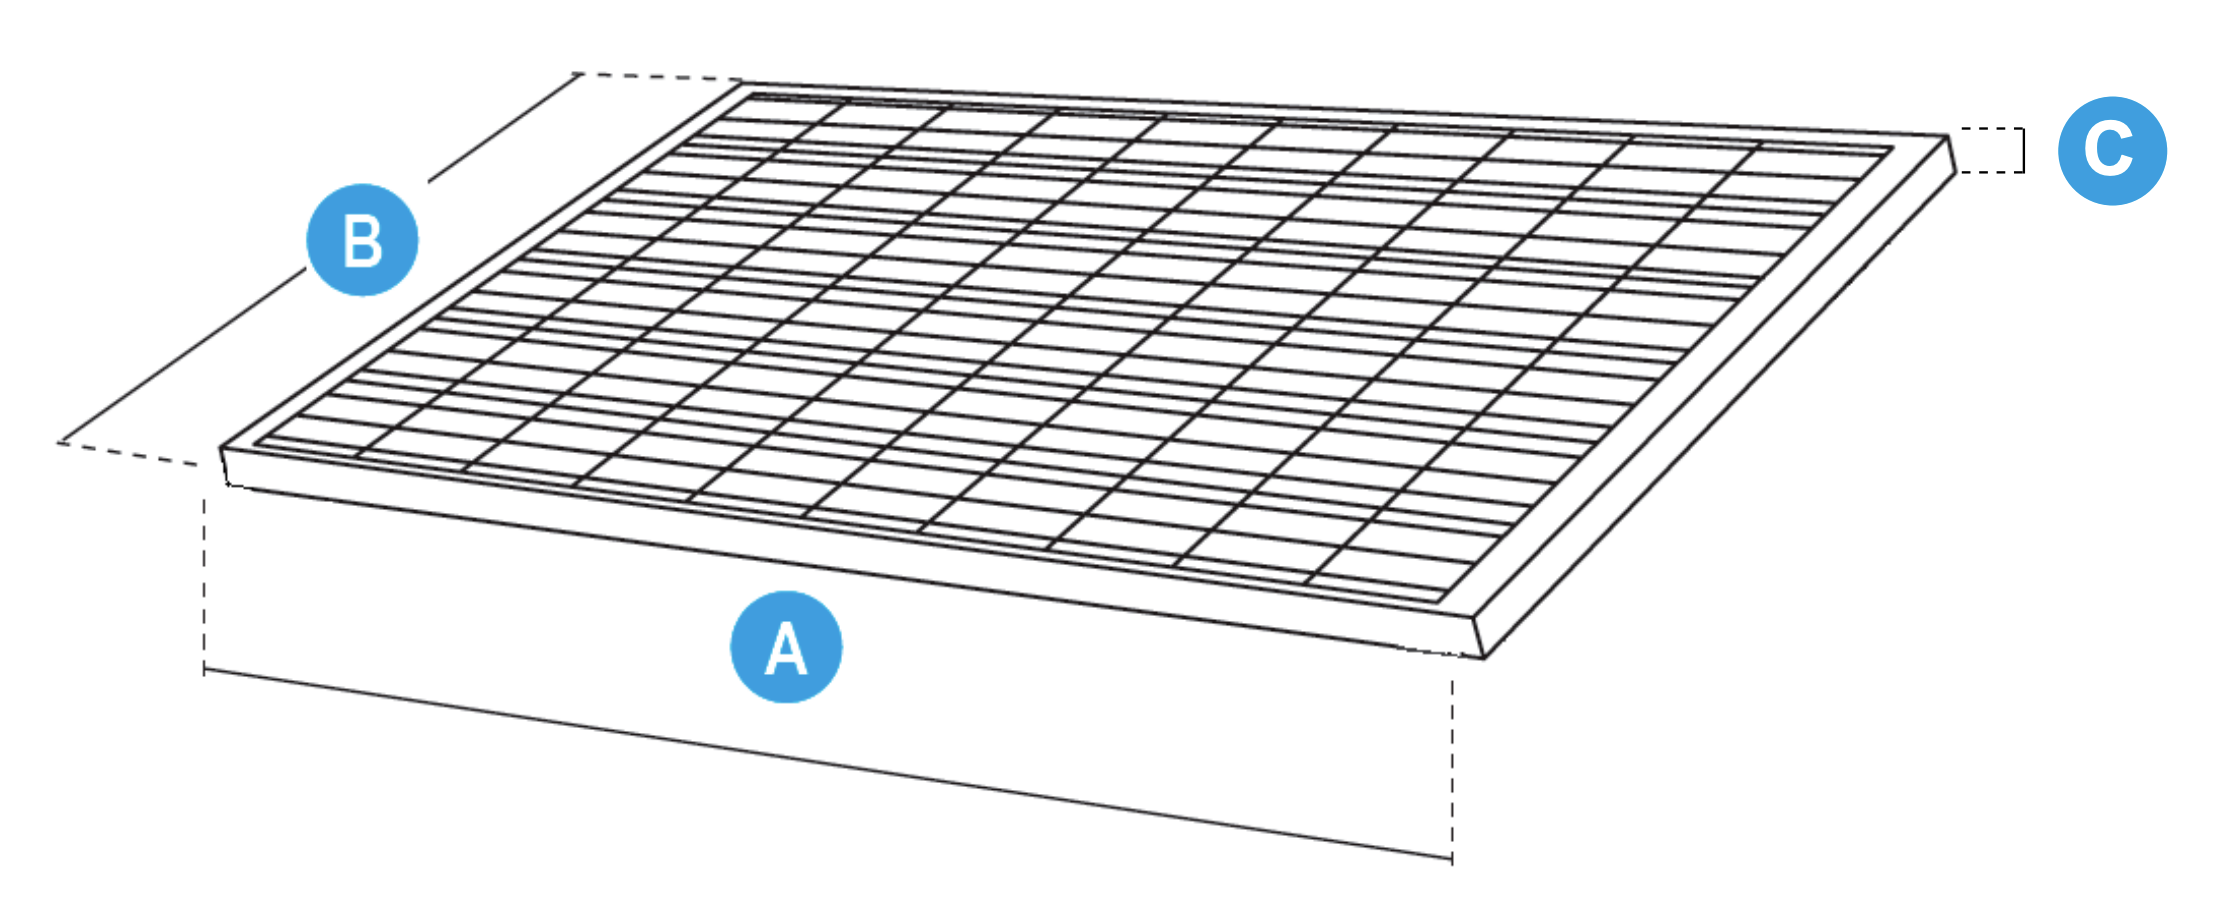
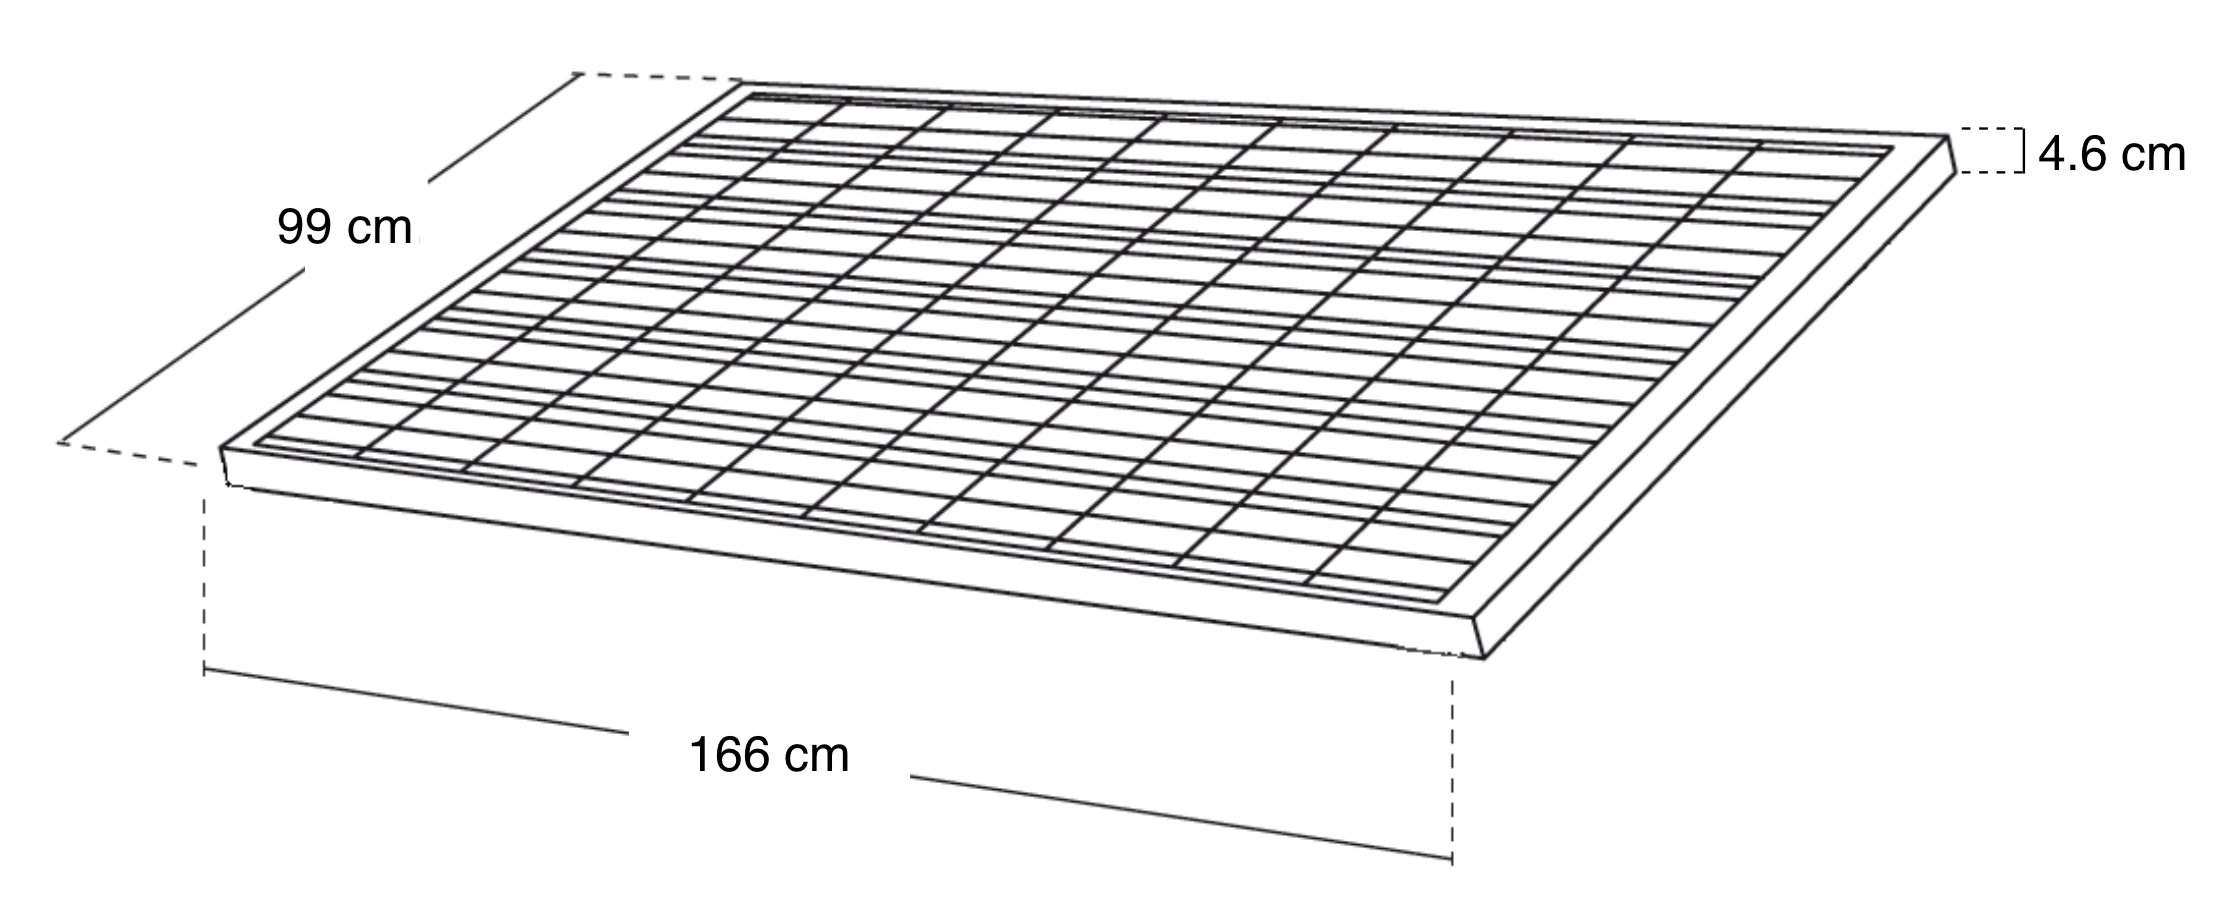
Correciones de rocha, figuras y redaccion

diff --git a/Capitulo2/marco_teorico.tex b/Capitulo2/marco_teorico.tex
@@ -8,12 +8,12 @@ Dado que este trabajo terminal emplea conceptos de diversas áreas de la Ingenie
 
 
 \section{Sistema Fotovoltaico}
-Un sistema fotovoltaico es un conjunto de dispositivos que aprovechan la energía producida por el Sol y la convierten en energía eléctrica \citep{MarcoTeorico1}. Un sistema fotovoltaico puede ser “interconectado” para residencias o negocios con acceso a la red eléctrica. 
+Un sistema fotovoltaico es un conjunto de dispositivos que aprovechan la energía producida por el sol y la convierten en energía eléctrica \citep{MarcoTeorico1}. Un sistema fotovoltaico puede ser “interconectado” para residencias o negocios con acceso a la red eléctrica. 
 
 \paragraph{}
 Con este sistema la energía generada se inyecta a la red eléctrica, disminuyendo así el consumo de energía de la compañía de luz. La otra opción es un sistema “isla” que permite el suministro de energía eléctrica en lugares inaccesibles para la red eléctrica. Estos sistemas son usados principalmente en casas de campo o en antenas de telecomunicación.
 \paragraph{}
-La particularidad de la corriente eléctrica generada por el efecto fotovoltaico es que esta corriente es continua, por lo cual el inversor transforma la corriente continua en alterna al estándar de la Norma Oficial Mexicana NOM-001-SEDE-2012 de Instalaciones Eléctricas (127 Volts a 60 Hertz) \citep{NORMA-Electrica} para ser alimentada a la red eléctrica, a continuación se muestra el diagrama de una instalación de un sistema fotovoltaico:
+La particularidad de la corriente eléctrica generada por el efecto fotovoltaico es que esta corriente es continua, por lo cual el inversor transforma la corriente continua en alterna al estándar de la Norma Oficial Mexicana NOM-001-SEDE-2012 de Instalaciones Eléctricas (127 Volts a 60 Hertz) \citep{NORMA-Electrica} para ser alimentada a la red eléctrica, en la figura 2.1 se muestra la típica configuración de un sistema fotovoltaico:
 
 \begin{figure}[H]
 	\centering
@@ -57,12 +57,12 @@ Unos de los requisitos más importantes de la instalación que cabe mencionar aq
 \paragraph{Panel fotovoltaico}
 Los paneles fotovoltaicos, llamados comúnmente paneles solares, están formados por un conjunto de células fotovoltaicas que producen electricidad a partir de la luz que incide sobre ellos mediante el efecto fotoeléctrico.
 \paragraph{}
-En la siguiente imagen se ilustra el efecto que consiste en la capacidad de algunos materiales (llamados semiconductores) de captar una parte de la energía de la luz para generar corriente eléctrica. En concreto, son los fotones los cuales transmiten una parte de su energía a ciertos electrones del material semiconductor. Estos electrones se “excitan”, y empiezan a fluir debido a la diferencia de potencial creando así corriente eléctrica \citep{MarcoTeorico2}.
+En la figura 2.2 se ilustra el efecto que consiste en la capacidad de algunos materiales (llamados semiconductores) de captar una parte de la energía de la luz para generar corriente eléctrica. En concreto, son los fotones los cuales transmiten una parte de su energía a ciertos electrones del material semiconductor. Estos electrones se “excitan”, y empiezan a fluir debido a la diferencia de potencial creando así corriente eléctrica \citep{MarcoTeorico2}.
 
 \begin{figure}[H]
 	\centering
 	\includegraphics[scale=.50]{Capitulo2/images/celula-fotovoltaica.jpg}
-	\caption{Ilustración del Efecto Fotoeléctrico}
+	\caption{Efecto Fotoeléctrico}
 	\label{fig:diagrama_dispensador}
 \end{figure}
 
@@ -77,21 +77,21 @@ Los paneles fotovoltaicos se clasifican en función del tipo de célula que los 
 \begin{figure}[H]
 	\centering
 	\includegraphics[scale=.50]{Capitulo2/images/tipospaneles.jpg}
-	\caption{De izquierda a derecha, célula monocristalina y célula policristalina}
+	\caption{A: célula monocristalina ; B: célula policristalina}
 	\label{fig:diagrama_dispensador}
 \end{figure}
 
 El costo de los paneles fotovoltaicos se ha reducido de forma constante desde que se fabricaron las primeras células solares comerciales y su coste medio de generación eléctrica ya es competitivo con las fuentes de energía convencionales en un creciente número de regiones geográficas.
-Los paneles fotovoltaicos pueden generar una gran cantidad de energía ya que en un día soleado, el Sol puede irradiar alrededor de 1kw por metro cuadrado a la superficie de la tierra, que sumado a la eficacia de estos paneles puede generar entre 120 y 250 w de manera constante por metro cuadrado, siempre dependiendo del tipo de panel y de su nivel de eficiencia.
+Los paneles fotovoltaicos pueden generar una gran cantidad de energía ya que en un día soleado, el sol puede irradiar alrededor de 1kw por metro cuadrado a la superficie de la tierra, que sumado a la eficacia de estos paneles puede generar entre 120 y 250 w de manera constante por metro cuadrado, siempre dependiendo del tipo de panel y de su nivel de eficiencia.
 
 \paragraph{Módulo Fotovoltaico 250W Policristalino IUSA}
 Módulo fotovoltaico al estándar de las normas mexicanas NMX-J-643 y NMX-J-618, se muestra en la siguiente imagen, con 60 celdas en silicio policristalino, vidrio templado anti reflejante de 3.2 mm, caja de conexión IP67 con 3 diodos bypass y conectores compatibles con MC4.
-Tiene una potencia máxima de 250W y un voltaje máximo de 30.6V, con una eficiencia del 15.1 porciento y temperatura de operación entre los -40ºC a los 85ºC. \citep{MarcoTeorico3}.
+Tiene una potencia máxima de 250W y un voltaje máximo de 30.6V, con una eficiencia del 15.1\% y temperatura de operación entre los -40ºC a los 85ºC. \citep{MarcoTeorico3}.
 
 \begin{figure}[H]
 	\centering
 	\includegraphics[scale=.25]{Capitulo2/images/panel.png}
-	\caption{Esquema del Panel Fotovoltaico, A: 166 cm, B: 99 cm. C: 4.6 cm}
+	\caption{Módulo Fotovoltaico 250W Policristalino IUSA}
 	\label{fig:diagrama_dispensador}
 \end{figure}
 
@@ -100,7 +100,7 @@ Diseñado específicamente para interconexiones en el sistema de distribución m
 
 \begin{figure}[H]
 	\centering
-	\includegraphics[scale=.25]{Capitulo2/images/microinversor.png}
+	\includegraphics[scale=.20]{Capitulo2/images/microinversor.png}
 	\caption{Microinversor M1-01-250}
 	\label{fig:diagrama_dispensador}
 \end{figure}
@@ -129,16 +129,16 @@ MIKROE-2542 es una placa con un adaptador tipo mikroBUS que integra el módulo E
 
 \begin{figure}[H]
 	\centering
-	\includegraphics[scale=.25]{Capitulo2/images/mikroe.png}
-	\caption{Placa MIKROE-2542}
+	\includegraphics[scale=.4]{Capitulo2/images/mikroe.png}
+	\caption{Placa MIKROE-2542, A:frente ; B:posterior}
 	\label{fig:diagrama_dispensador}
 \end{figure}
 \paragraph{}
 
 \begin{figure}[H]
 	\centering
-	\includegraphics[scale=.25]{Capitulo2/images/wroom.png}
-	\caption{Módulo ESP-WROOM-02}
+	\includegraphics[scale=.2]{Capitulo2/images/wroom.png}
+	\caption{Módulo ESP-WROOM-02, A:frente ; B:posterior}
 	\label{fig:diagrama_dispensador}
 \end{figure}
 
@@ -157,11 +157,11 @@ Es un estándar de distribución de los pines para la conexión y comunicación 
 El ESP8266 es un SoC Wi-Fi \citep{MarcoTeorico7} (System on Chip: integra todos o gran parte de los módulos que componen un sistema electrónico en un único circuito integrado) compuesto por una pila TCP/IP y un microcontrolador \citep{MarcoTeorico8}.
 \paragraph{}
 
-Este módulo permite a otros microcontroladores conectarse a un red inalámbrica Wi-Fi y realizar conexiones simples con TCP/IP haciendo uso eficiente de energía, lo cual lo hace ideal para proyectos de IoT. A continuación, se muestra una comparativa con otros módulos WiFi, la elección de este módulo es debido a que tiene solamente las características de comunicación WiFi necesarias y suficientes para la aplicación a desarrollar, además de un costo promedio:
+Este módulo permite a otros microcontroladores conectarse a un red inalámbrica Wi-Fi y realizar conexiones simples con TCP/IP haciendo uso eficiente de energía, lo cual lo hace ideal para proyectos de IoT. A continuación, se muestra una comparativa con otros módulos WiFi, la elección de este módulo es debido a que tiene solamente las características de comunicación WiFi necesarias y suficientes para la aplicación a desarrollar.
 
 \begin{figure}[H]
 	\centering
-	\includegraphics[scale=.4]{Capitulo2/images/esp8266.png}
+	\includegraphics[scale=.3]{Capitulo2/images/esp8266.png}
 	\caption{Diagrama esquemático del chip ESP8266}
 	\label{fig:diagrama_dispensador}
 \end{figure}
@@ -426,6 +426,8 @@ A continuación, se muestra una comparativa entre la Raspberry Pi 3B y la Banana
 	%\label{tabla_riesgos}
 \end{longtable}
 
+
+
 \section{Microcontroladores}
 Hoy en día, los conteos de producción de microcontroladores son de miles de millones por año, y los controladores están integrados en muchos dispositivos a los que nos hemos acostumbrado, como electrodomésticos (microondas, lavadora, cafetera, etc.), telecomunicaciones (teléfonos móviles), industria automotriz (inyección de combustible, frenado ABS, etc.), industria aeroespacial, automatización industrial, entre otros.
 \paragraph{}
@@ -514,7 +516,7 @@ En la siguiente tabla, se muestra una comparativa entre los microcontroladores d
 	-Tres temporizadores/contadores de 16 bits; temporizadores de 16 bits opcionalmente emparejados en módulos temporizadores de 32 bits
 	\newline-Hasta cuatro funciones de entrada de captura de 16 bits
 	\newline-Hasta cuatro funciones de salida de 16 bits de comparación / PWM
-	\\ \hline
+	\hline
 	
 	% \end{tabular}
 	

diff --git a/Capitulo1/presentacion.tex b/Capitulo1/presentacion.tex
@@ -5,7 +5,7 @@
 \section{Presentación} % section headings are printed smaller than chapter names
 La implementación de fuentes de energía renovable ha cobrado cada vez más importancia hoy en día, debido a que ofrecen múltiples beneficios durante la elaboración de las actividades diarias del hombre. 
 \paragraph{}
-Entre las fuentes de energía renovable destaca el uso de las celdas fotovoltaicas, ofreciendo ventajas a los usuarios tales como: el aprovechamiento del Sol, el cual se trata de una fuente de energía inagotable; generación de energía limpia (no contaminante), así como ahorro económico en el servicio de electricidad. Dicha energía puede ser aprovechada en diferentes sectores, desde los domésticos hasta los industriales. Algunos de sus usos y aplicaciones son: el almacenamiento de la energía generada en baterías electrolíticas para su futura utilización, la electrificación de zonas rurales en las cuales no es posible hacer llegar la red eléctrica convencional, así como ser utilizada por dispositivos convencionales como televisiones, radios, lámparas fluorescentes, entre otros, mediante un inversor de corriente eléctrica \citep{Pre1}.   
+Entre las fuentes de energía renovable destaca el uso de las celdas fotovoltaicas, ofreciendo ventajas a los usuarios tales como: el aprovechamiento del sol, el cual se trata de una fuente de energía inagotable; generación de energía limpia (no contaminante), así como ahorro económico en el servicio de electricidad. Dicha energía puede ser aprovechada en diferentes sectores, desde los domésticos hasta los industriales. Algunos de sus usos y aplicaciones son: el almacenamiento de la energía generada en baterías electrolíticas para su futura utilización, la electrificación de zonas rurales en las cuales no es posible hacer llegar la red eléctrica convencional, así como ser utilizada por dispositivos convencionales como televisiones, radios, lámparas fluorescentes, entre otros, mediante un inversor de corriente eléctrica \citep{Pre1}.   
 %Buscar usos y aplicaciones de celdas fotovoltaicas (enfocado en domestico)
 \paragraph{}
 El grado de generación de energía eléctrica para su uso en las instalaciones deseadas depende del efecto fotovoltaico, es decir, cuando sobre los materiales semiconductores que componen a las células fotovoltaicas incide la radiación solar produciendo la electricidad, también se consideran diversos factores físicos para su producción. De hecho, se han realizado varias investigaciones con el propósito de obtener avances en las células fotovoltaicas, de los cuales destaca el Instituto de Investigación Fraunhofer en Europa, que se ha enfocado en mejorar su eficiencia y rendimiento, tomando como punto de referencia al llamado "límite de eficiencia", el objetivo consiste en obtener un potencial de eficiencia de hasta el 50 por ciento bajo luz solar concentrada en los nuevos paneles solares, para posteriormente asegurar garantías de calidad, eficiencia y eficacia del comportamiento de los paneles solares en la generación de energía eléctrica frente a factores y variables como el calor, la arena, el polvo, las tormentas, entre otros elementos que afecten al rendimiento \citep{Pre1}. Aunado a esto, el hombre se ha interesado por medir su consumo eléctrico, así como ver el reflejo del beneficio obtenido por la implementación de un sistema de energía limpia. 

diff --git a/Capitulo1/justificacion.tex b/Capitulo1/justificacion.tex
@@ -2,5 +2,5 @@
 %                           Motivación y estado del arte                %
 %%%%%%%%%%%%%%%%%%%%%%%%%%%%%%%%%%%%%%%%%%%%%%%%%%%%%%%%%%%%%%%%%%%%%%%%%
 \section{Justificación}
-El incremento en el uso de fuentes de energía renovables en la actualidad tiene cada vez mayor relevancia debido a que en países como México, tiene un costo inferior de obtención que los combustibles fósiles \citep{Not1}, gracias al progreso que se ha logrado en este campo, la utilización de energía solar incrementó en un trece porciento en México en el 2018 \citep{Not2}, siendo así la energía fotovoltaica una de las fuentes renovables más accesibles y eficientes para su aplicación en proyectos de pequeña o gran magnitud.
+El incremento en el uso de fuentes de energía renovables en la actualidad tiene cada vez mayor relevancia debido a que en países como México, tiene un costo inferior de obtención que los combustibles fósiles \citep{Not1}, gracias al progreso que se ha logrado en este campo, la utilización de energía solar incrementó en un 13\% en México en el 2018 \citep{Not2}, siendo así la energía fotovoltaica una de las fuentes renovables más accesibles y eficientes para su aplicación en proyectos de pequeña o gran magnitud.
 El presente trabajo terminal ofrece un sistema que permitirá a los usuarios de módulos fotovoltaicos consultar y monitorear mediante una aplicación las variables de voltaje y corriente para que estos tengan conocimiento de la producción de energía de la instalación.

diff --git a/Capitulo3/requerimientos_funcionales.tex b/Capitulo3/requerimientos_funcionales.tex
@@ -1,6 +1,6 @@
 \section{Requerimientos funcionales}
 A continuación, se presenta un listado con los requerimientos funcionales que se obtuvieron.
-El listado de requerimientos funcionales se encuentra dividido de acuerdo con los módulos que se identificaron:
+El listado de requerimientos funcionales se encuentra dividido de acuerdo con los módulos que se identificaron.
 
 \paragraph{}
 \begin{figure}[H]
@@ -24,14 +24,14 @@ El listado de requerimientos funcionales se encuentra dividido de acuerdo con lo
 
 \paragraph{Módulo de Servidor.}
 \begin{enumerate}[label=RF\arabic*.]
-	\setcounter{enumi}{12}
+	\setcounter{enumi}{2}
 	\item Proporcionar un servicio para la recepción de los paquetes enviados por el módulo Wi-Fi MIKROE-2542 y su almacenamiento en un archivo de formato de texto.
 	\item Proporcionar un servicio de comunicación vía HTTP para el envío de la información almacenada para dar respuesta a las peticiones realizadas por el usuario desde la aplicación móvil.  
 \end{enumerate}
 
 \paragraph{Módulo de Aplicación de usuario.}
 \begin{enumerate}[label=RF\arabic*.]
-	\setcounter{enumi}{16}
+	\setcounter{enumi}{4}
 	\item Proporcionar un mecanismo para la vinculación entre la aplicación y el servidor.
 	\item Proporcionar un servicio de comunicación vía HTTP para la generación de peticiones al servidor.
 	\item Proporcionar un mecanismo para la visualización en tiempo real de la generación  de la energía producida por el sistema fotovoltaico.
